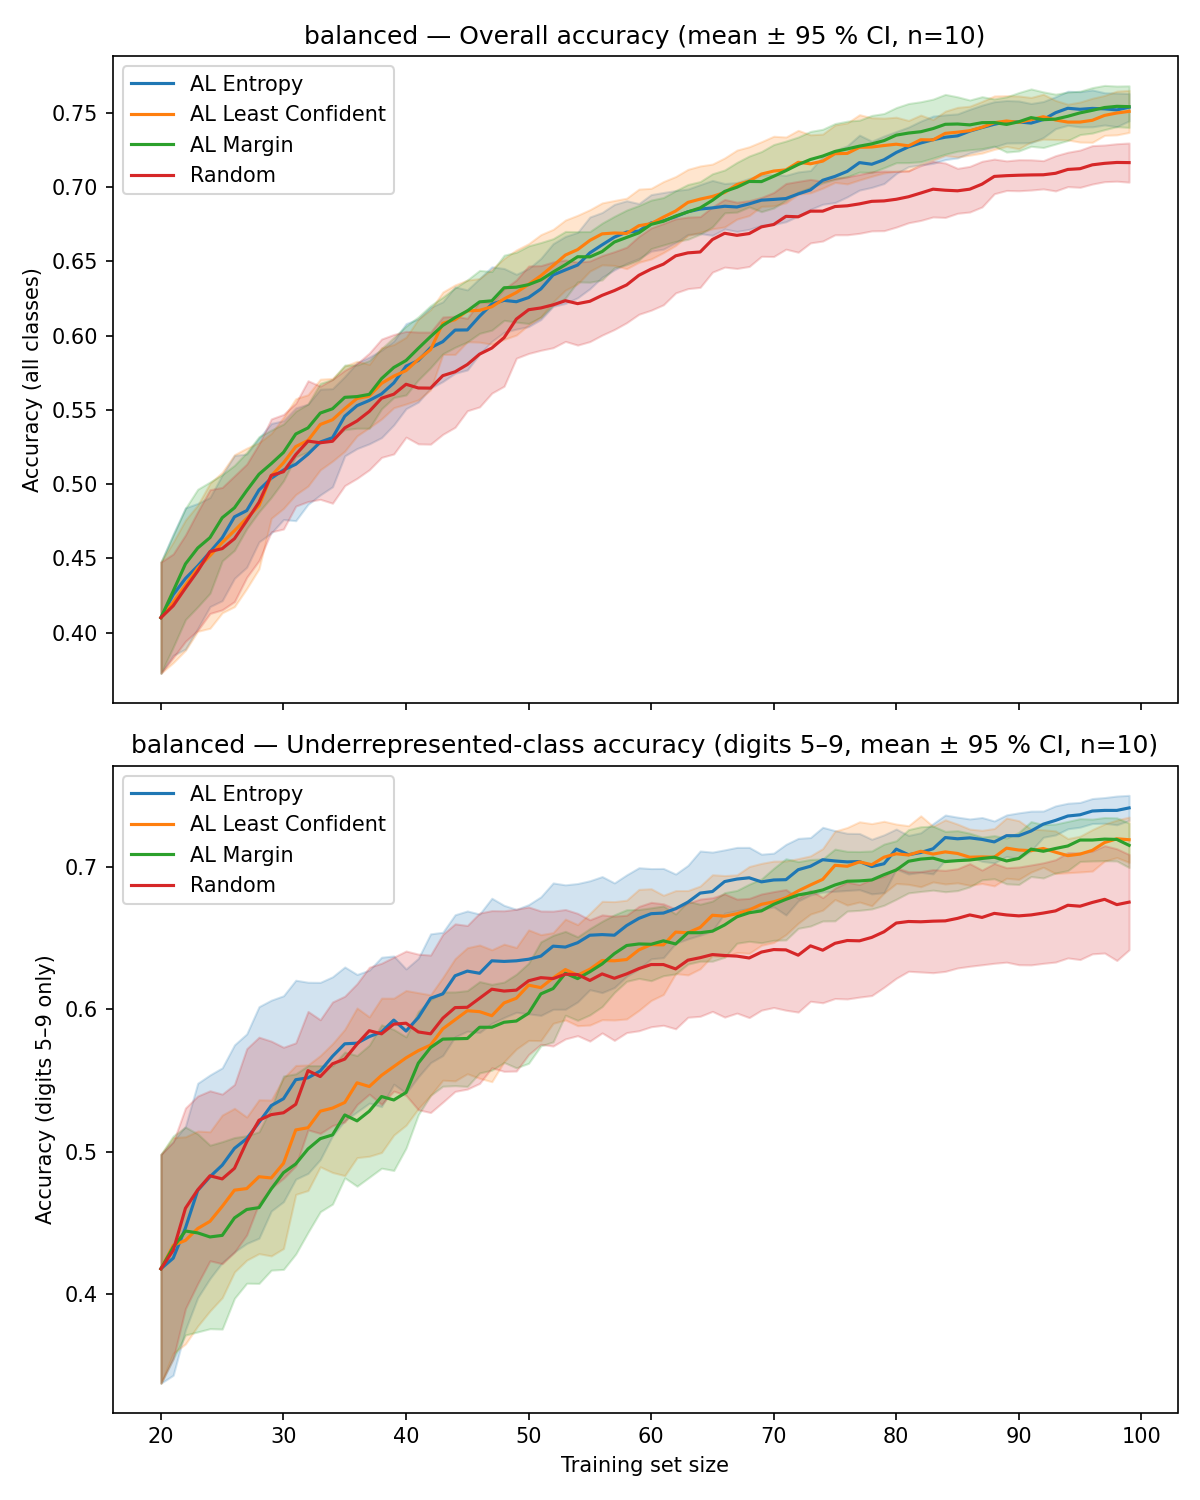
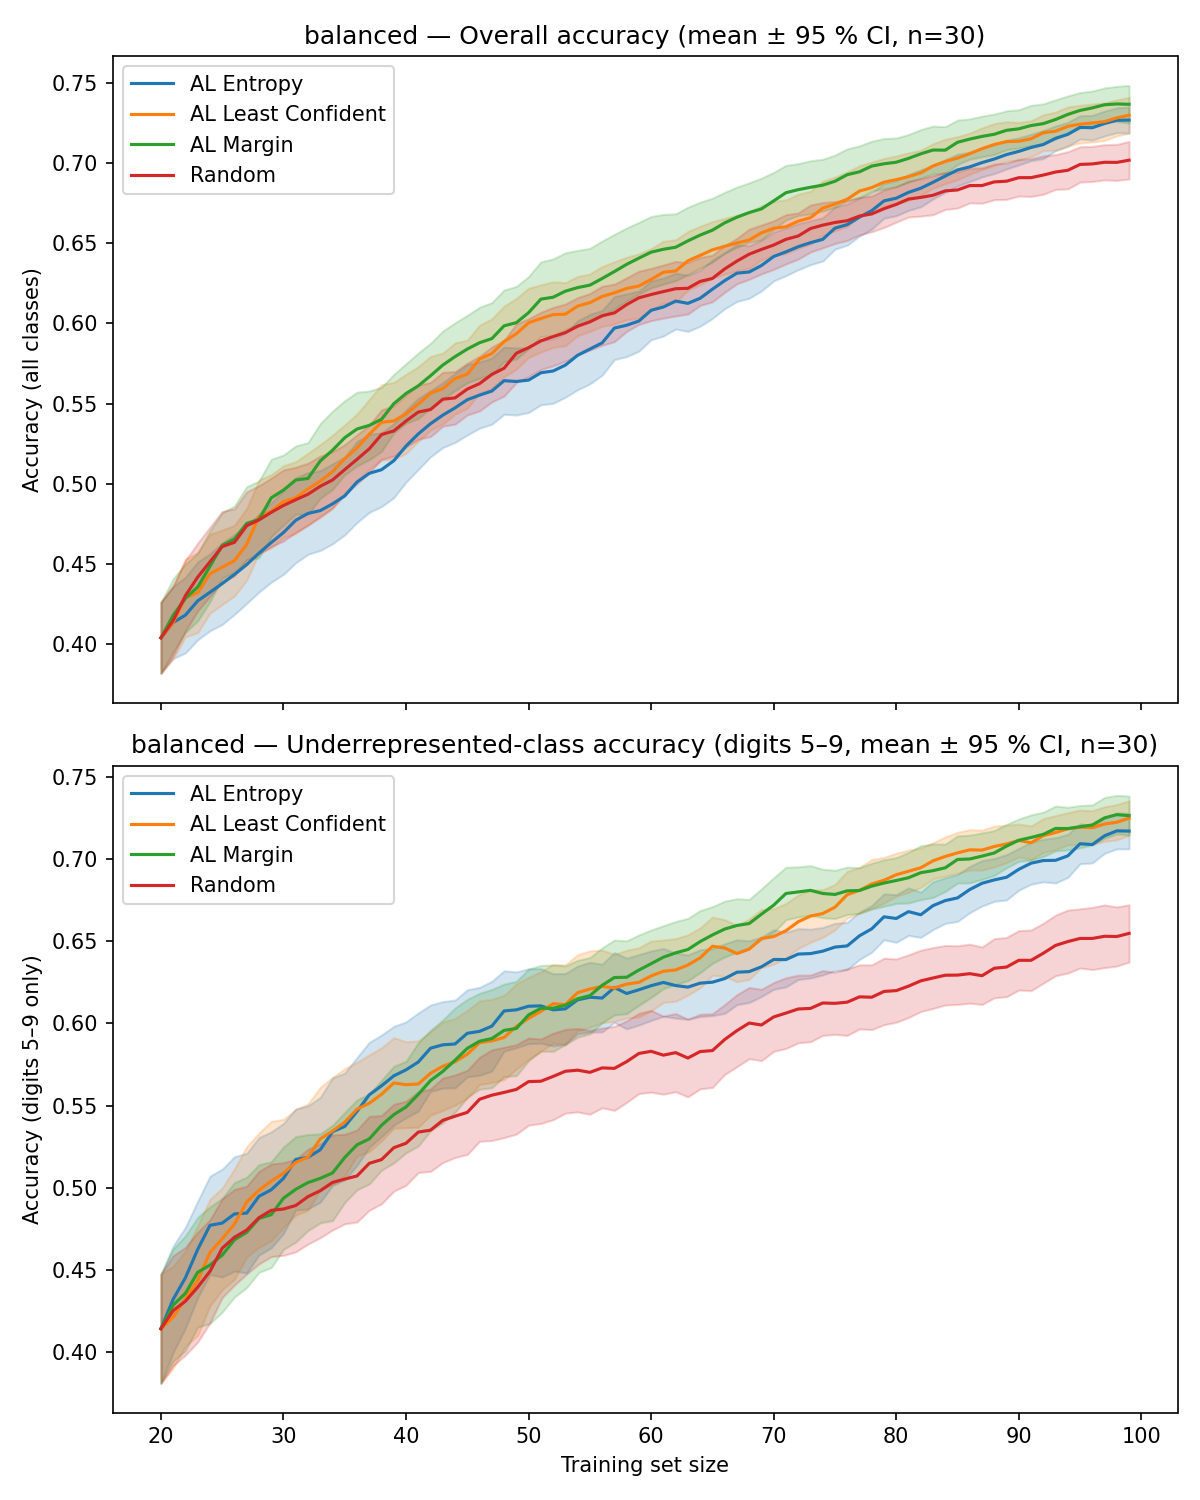
CI bands will be visible final version

diff --git a/src/chat_main.py b/src/chat_main.py
@@ -266,7 +266,7 @@ def run_experiment(data, name, all_dfs, n_init):
 if __name__ == "__main__":
     N_INIT       = 20
     N_ITERATIONS = 80
-    N_AVG        = 10
+    N_AVG        = 30
 
     imbalanced_data = load_data(imbalanced=True)
     balanced_data   = load_data(imbalanced=False)
